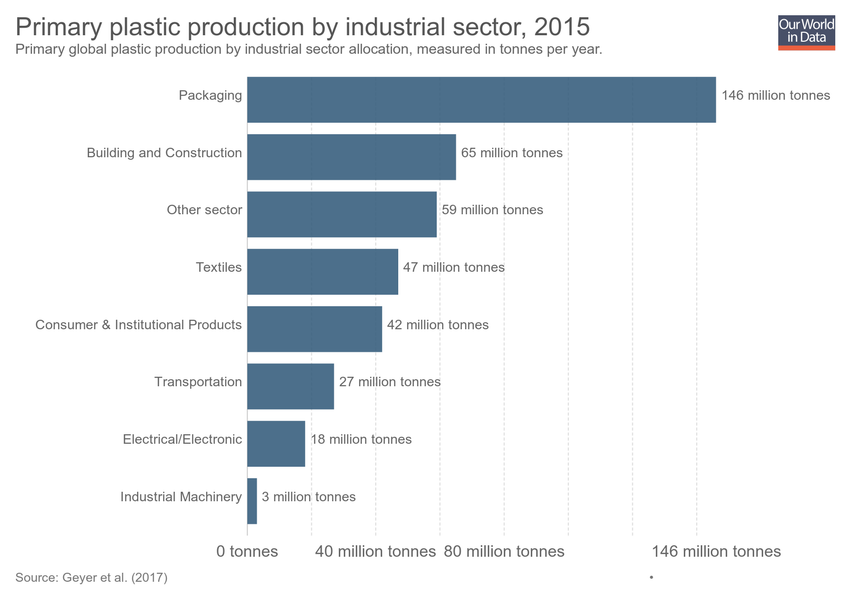
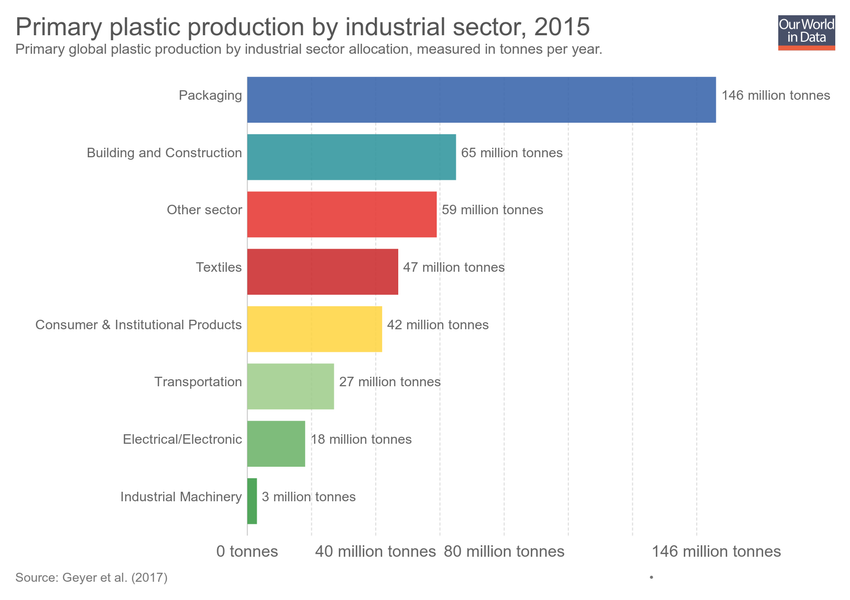
Publishing chart global-plastic-fate

Changed region(s): [[0.2753, 0.12, 0.8565, 0.87]]

diff --git a/grapher/plastic-production-by-sector.html b/grapher/plastic-production-by-sector.html
@@ -1,4 +1,4 @@
-<!doctype html><html><head><meta name="viewport" content="width=device-width, initial-scale=1" /><title>Primary plastic production by industrial sector - Our World in Data</title><meta name="description" content="Primary global plastic production by industrial sector allocation, measured in tonnes per year." /><link rel="canonical" href="https://ourworldindata.org/grapher/plastic-production-by-sector" /><meta property="fb:app_id" content="1149943818390250" /><meta property="og:url" content="https://ourworldindata.org/grapher/plastic-production-by-sector" /><meta property="og:title" content="Primary plastic production by industrial sector" /><meta property="og:description" content="Primary global plastic production by industrial sector allocation, measured in tonnes per year." /><meta property="og:image" content="https://ourworldindata.org/grapher/exports/plastic-production-by-sector.png?v=1" /><meta property="og:image:width" content="850" /><meta property="og:image:height" content="600" /><meta property="og:site_name" content="Our World in Data" /><meta name="twitter:card" content="summary_large_image" /><meta name="twitter:site" content="@OurWorldInData" /><meta name="twitter:creator" content="@OurWorldInData" /><meta name="twitter:title" content="Primary plastic production by industrial sector" /><meta name="twitter:description" content="Primary global plastic production by industrial sector allocation, measured in tonnes per year." /><meta name="twitter:image" content="https://ourworldindata.org/grapher/exports/plastic-production-by-sector.png?v=1" /><style>
+<!doctype html><html><head><meta name="viewport" content="width=device-width, initial-scale=1" /><title>Primary plastic production by industrial sector - Our World in Data</title><meta name="description" content="Primary global plastic production by industrial sector allocation, measured in tonnes per year." /><link rel="canonical" href="https://ourworldindata.org/grapher/plastic-production-by-sector" /><meta property="fb:app_id" content="1149943818390250" /><meta property="og:url" content="https://ourworldindata.org/grapher/plastic-production-by-sector" /><meta property="og:title" content="Primary plastic production by industrial sector" /><meta property="og:description" content="Primary global plastic production by industrial sector allocation, measured in tonnes per year." /><meta property="og:image" content="https://ourworldindata.org/grapher/exports/plastic-production-by-sector.png?v=2" /><meta property="og:image:width" content="850" /><meta property="og:image:height" content="600" /><meta property="og:site_name" content="Our World in Data" /><meta name="twitter:card" content="summary_large_image" /><meta name="twitter:site" content="@OurWorldInData" /><meta name="twitter:creator" content="@OurWorldInData" /><meta name="twitter:title" content="Primary plastic production by industrial sector" /><meta name="twitter:description" content="Primary global plastic production by industrial sector allocation, measured in tonnes per year." /><meta name="twitter:image" content="https://ourworldindata.org/grapher/exports/plastic-production-by-sector.png?v=2" /><style>
         html, body {
             height: 100%;
             margin: 0;
@@ -20,8 +20,8 @@
         }
     </style><noscript><style>
                     figure { display: none !important; }
-                </style></noscript><link rel="stylesheet" href="https://ourworldindata.org/grapher/assets/commons.bundle.7bc7a3a90f15cac09df5.css" /><link rel="preload" href="/grapher/data/variables/97694.json?v=1" as="fetch" crossorigin /></head><body class="singleChart"><figure data-grapher-src="/grapher/plastic-production-by-sector"></figure><noscript id="fallback"><img src="/grapher/exports/plastic-production-by-sector.svg" /><p>Interactive visualization requires JavaScript</p></noscript><script src="https://cdn.polyfill.io/v2/polyfill.min.js?features=es6,fetch"></script><script src="https://ourworldindata.org/grapher/assets/commons.bundle.7bc7a3a90f15cac09df5.js"></script><script src="https://ourworldindata.org/grapher/assets/charts.bundle.7bc7a3a90f15cac09df5.js"></script><script>
-        var jsonConfig = {"map":{"projection":"World","colorSchemeLabels":[],"colorSchemeValues":[],"customNumericColors":[],"customCategoryColors":{},"customCategoryLabels":{},"customHiddenCategories":{}},"tab":"chart","slug":"plastic-production-by-sector","type":"DiscreteBar","title":"Primary plastic production by industrial sector","xAxis":{"scaleType":"linear"},"yAxis":{"min":0,"scaleType":"linear"},"version":1,"subtitle":"Primary global plastic production by industrial sector allocation, measured in tonnes per year.","hasMapTab":false,"stackMode":"absolute","dimensions":[{"display":{"unit":"tonnes","shortUnit":"tonnes","conversionFactor":1000000},"property":"y","variableId":97694}],"sourceDesc":"Geyer et al. (2017)","hasChartTab":true,"isPublished":true,"selectedData":[{"index":0,"entityId":37787},{"index":0,"entityId":37784},{"index":0,"entityId":37786},{"index":0,"entityId":37785},{"index":0,"entityId":37782},{"index":0,"entityId":37231},{"index":0,"entityId":37783},{"index":0,"entityId":37788}],"addCountryMode":"disabled","id":2893};
+                </style></noscript><link rel="stylesheet" href="https://ourworldindata.org/grapher/assets/commons.bundle.7bc7a3a90f15cac09df5.css" /><link rel="preload" href="/grapher/data/variables/97694.json?v=2" as="fetch" crossorigin /></head><body class="singleChart"><figure data-grapher-src="/grapher/plastic-production-by-sector"></figure><noscript id="fallback"><img src="/grapher/exports/plastic-production-by-sector.svg" /><p>Interactive visualization requires JavaScript</p></noscript><script src="https://cdn.polyfill.io/v2/polyfill.min.js?features=es6,fetch"></script><script src="https://ourworldindata.org/grapher/assets/commons.bundle.7bc7a3a90f15cac09df5.js"></script><script src="https://ourworldindata.org/grapher/assets/charts.bundle.7bc7a3a90f15cac09df5.js"></script><script>
+        var jsonConfig = {"id":2893,"map":{"projection":"World","colorSchemeLabels":[],"colorSchemeValues":[],"customNumericColors":[],"customCategoryColors":{},"customCategoryLabels":{},"customHiddenCategories":{}},"tab":"chart","slug":"plastic-production-by-sector","type":"DiscreteBar","title":"Primary plastic production by industrial sector","xAxis":{"scaleType":"linear"},"yAxis":{"min":0,"scaleType":"linear"},"version":2,"subtitle":"Primary global plastic production by industrial sector allocation, measured in tonnes per year.","hasMapTab":false,"stackMode":"absolute","dimensions":[{"display":{"unit":"tonnes","shortUnit":"tonnes","conversionFactor":1000000},"property":"y","variableId":97694}],"sourceDesc":"Geyer et al. (2017)","hasChartTab":true,"isPublished":true,"selectedData":[{"index":0,"entityId":37787},{"index":0,"entityId":37784},{"index":0,"entityId":37786},{"index":0,"entityId":37785},{"index":0,"entityId":37782},{"index":0,"entityId":37231},{"index":0,"entityId":37783},{"index":0,"entityId":37788}],"addCountryMode":"disabled","baseColorScheme":"stackedAreaDefault","invertColorScheme":true};
         var figure = document.getElementsByTagName("figure")[0];
         try {
             window.App = {};

diff --git a/grapher/global-plastic-fate.html b/grapher/global-plastic-fate.html
@@ -1,0 +1,35 @@
+<!doctype html><html><head><meta name="viewport" content="width=device-width, initial-scale=1" /><title>Global plastic waste by disposal - Our World in Data</title><meta name="description" content="Estimated share of global plastic waste by disposal method. " /><link rel="canonical" href="https://ourworldindata.org/grapher/global-plastic-fate" /><meta property="fb:app_id" content="1149943818390250" /><meta property="og:url" content="https://ourworldindata.org/grapher/global-plastic-fate" /><meta property="og:title" content="Global plastic waste by disposal" /><meta property="og:description" content="Estimated share of global plastic waste by disposal method. " /><meta property="og:image" content="https://ourworldindata.org/grapher/exports/global-plastic-fate.png?v=1" /><meta property="og:image:width" content="850" /><meta property="og:image:height" content="600" /><meta property="og:site_name" content="Our World in Data" /><meta name="twitter:card" content="summary_large_image" /><meta name="twitter:site" content="@OurWorldInData" /><meta name="twitter:creator" content="@OurWorldInData" /><meta name="twitter:title" content="Global plastic waste by disposal" /><meta name="twitter:description" content="Estimated share of global plastic waste by disposal method. " /><meta name="twitter:image" content="https://ourworldindata.org/grapher/exports/global-plastic-fate.png?v=1" /><style>
+        html, body {
+            height: 100%;
+            margin: 0;
+        }
+
+        figure[data-grapher-src], #fallback {
+            display: flex;
+            align-items: center;
+            justify-content: center;
+            flex-direction: column;
+            margin: 0;
+            width: 100%;
+            height: 100%;
+        }
+
+        #fallback > img {
+            max-width: 100%;
+            border: 1px solid #ccc;
+        }
+    </style><noscript><style>
+                    figure { display: none !important; }
+                </style></noscript><link rel="stylesheet" href="https://ourworldindata.org/grapher/assets/commons.bundle.7bc7a3a90f15cac09df5.css" /><link rel="preload" href="/grapher/data/variables/97696.json?v=1" as="fetch" crossorigin /></head><body class="singleChart"><figure data-grapher-src="/grapher/global-plastic-fate"></figure><noscript id="fallback"><img src="/grapher/exports/global-plastic-fate.svg" /><p>Interactive visualization requires JavaScript</p></noscript><script src="https://cdn.polyfill.io/v2/polyfill.min.js?features=es6,fetch"></script><script src="https://ourworldindata.org/grapher/assets/commons.bundle.7bc7a3a90f15cac09df5.js"></script><script src="https://ourworldindata.org/grapher/assets/charts.bundle.7bc7a3a90f15cac09df5.js"></script><script>
+        var jsonConfig = {"map":{"projection":"World","colorSchemeLabels":[],"colorSchemeValues":[],"customNumericColors":[],"customCategoryColors":{},"customCategoryLabels":{},"customHiddenCategories":{}},"tab":"chart","slug":"global-plastic-fate","type":"StackedArea","title":"Global plastic waste by disposal","xAxis":{"scaleType":"linear"},"yAxis":{"min":0,"scaleType":"linear"},"version":1,"subtitle":"Estimated share of global plastic waste by disposal method. ","hasMapTab":false,"stackMode":"absolute","dimensions":[{"display":{},"property":"y","variableId":97696}],"sourceDesc":"Geyer et al. (2017)","hasChartTab":true,"isPublished":true,"selectedData":[{"color":"#2a939b","index":0,"entityId":37801},{"color":"#e6332e","index":0,"entityId":37802},{"color":"#818282","index":0,"entityId":37800}],"addCountryMode":"disabled","hideRelativeToggle":true,"id":2895};
+        var figure = document.getElementsByTagName("figure")[0];
+        try {
+            window.App = {};
+            window.Global = { rootUrl: 'https://ourworldindata.org/grapher' };
+            ChartView.bootstrap({ jsonConfig: jsonConfig, containerNode: figure })
+        } catch (err) {
+            figure.innerHTML = "<img src=\"/grapher/exports/global-plastic-fate.svg\"/><p>Unable to load interactive visualization</p>";
+            figure.setAttribute("id", "fallback");
+            throw err;
+        }
+    </script></body></html>
